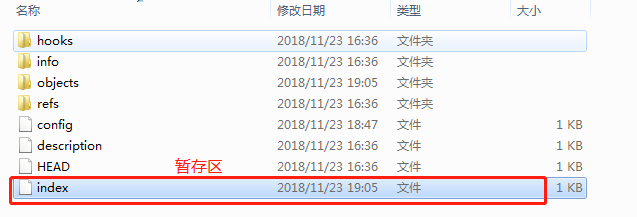
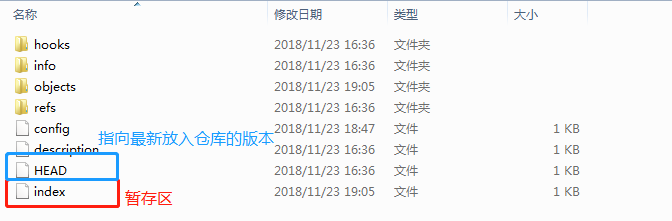
本地仓库工作目录版本库远程仓库区别 一次提交与推送

diff --git a/Git基础知识/基础命令.md b/Git基础知识/基础命令.md
@@ -38,45 +38,104 @@ clone下来的项目我们就可以正常开发了，当然我们也可以在本
 
 	git remote add origin https://github.com/****.git 
 
-需要注意，如果你在远程仓库上创建了一个新的项目时勾选了自动生成readme/.gitignore，经常会遇到本地仓库无法提交的情况。这通常是因为我们创建远程仓库时勾选的readme/.gitignore是远程仓库的第一次commit，我们从本地仓库第一次向远程仓库push代码前，没有pull一下远程仓库的代码，本地没有readme/.gitignore文件，所以无法提交成功。所以要先pull再push，当然如果你创建远程仓库时不勾选readme/.gitignore就可以直接push上去
-
-##提交
-
-创建一个文件夹，添加新的文件
-
-	git status //查看工作目录当前状态
-![](https://i.imgur.com/svSfUqC.png)
-
-untracked files表示未追踪的文件，就是新创建的src文件夹，未追踪的意思就是当前本地git仓库对它没有任何的记录，对本地仓库来说是不存在的，在我们提交代码的时候也不会提交上去
-
-	git add 文件 //将新创建的文件添加到工作目录追踪范围之内
-
-执行之后没有任何提示，执行git status看下当前本地仓库的状态：
-![](https://i.imgur.com/mqpxIDh.png)
-
-新添加的文件进入暂存区，从untracked未跟踪状态变为stage已暂存状态。
-
-##工作目录 暂存区 版本库
+##工作目录 暂存区 版本库 远程仓库
 
 **工作目录（working directory）**就是我们创建的项目文件夹，我们开发项目的地方，.git所在根目录
 
 	新创建的文件要添加到暂存区——git add
 
-**暂存区（index/staging area）**是指储存了所有待提交的改动的地方，只有在暂存区存在的文件，本地仓库才会追踪到它的变化。存储在.git文件夹中的index中，是一个二进制文件，可以理解为一个索引，内容包括根据文件名，文件模式和元数据进行排序的文件路径列表，每个路径都有权限以及Blob类型的SHA-1标识符（就是我们平时提交记录对应的那一串编码，下面会讲到
+**暂存区（index/staging area）**是指储存了所有待提交的改动的地方，只有在暂存区存在的文件，本地仓库才会追踪到它的变化。
+
+*暂存区对应在.git文件夹中的index中，是一个二进制文件，可以理解为一个索引，内容包括根据文件名，文件模式和元数据进行排序的文件路径列表，每个路径都有权限以及Blob类型的SHA-1标识符（就是我们平时提交记录对应的那一串编码，下面会讲到）*
 
 	把文件从暂存区提交到本地的版本库中——git commit
 
-**版本库**（Repository），可以理解为就是我们分布式版本控制中提到的我们本地的代码版本库，这里面有我们所有提交版本版本的数据。其中HEAD指向最新放入仓库的版本实质上是一个指针，存储在.git下的head，git为我们自动生了一个分支master，head就指向这个分支
+**版本库/本地仓库**（Repository）可以理解为就是我们分布式版本控制中提到的我们本地的代码版本库，这里面有我们所有提交版本版本的数据。
+
+*对应.git中的HEAD,实质上是一个指针，指向最新放入仓库的版本，默认情况下git为我们自动生了一个分支master，head就指向这个分支*
+
+**远程仓库**（Remote）托管代码的服务器，上面介绍分布式版本控制中的远程中央仓库，可以理解为一台专门用于协作开发时数据交换的电脑。
 
 ![](https://i.imgur.com/zvqcgU2.png)
+
+![](https://i.imgur.com/aQJUczH.png)
 
 	git diff 比较的是工作区和暂存区的差别
 	git diff HEAD 可以查看工作区和版本库的差别
 	git diff --cached 比较的是暂存区和版本库的差别
 
-![](https://i.imgur.com/AaAv8Yh.png)
 
+##简单的提交和推送
 
+创建一个文件夹，添加新的文件
+
+	git status //查看工作目录和暂存区的状态
+
+![](https://i.imgur.com/svSfUqC.png)
+
+untracked files表示未追踪的文件，就是新创建的src文件夹，未追踪的意思就是当前本地git仓库对它没有任何的记录，对本地仓库来说是不存在的，在我们提交代码的时候也不会提交上去
+
+	git add 文件 //将新创建的文件添加到暂存区
+
+执行之后没有任何提示，执行git status看下当前本地仓库的状态：
+
+![](https://i.imgur.com/mqpxIDh.png)
+
+新添加的文件进入暂存区，从untracked未跟踪状态变为stage已暂存状态。接着文件进入暂存区之后，我们的修改就都可以被暂存区追踪到，我们修改一下新增加文件夹下面的test.js文件
+
+![](https://i.imgur.com/iDWdbGg.png)
+
+这次文件左边的状态从New file（新建）变成了modified（修改），上面的提示不再是untracked（不在追踪范围）而是not staged for commit（还不在待提交的暂存区中）。意思就是，本地仓库现在已经认识了这个文件，它被修改了，还没到储存待提交信息的暂存区中，还是使用add添加到暂存区：
+
+	git add 文件名
+
+查看下工作目录和暂存区当前文件的状态
+
+![](https://i.imgur.com/bcxUsf5.png)
+
+按照提示，接着就可以commit提交了：
+
+	git commit //将暂存区文件提交到本地版本库中
+
+输入git commit回车之后，会进入命令模式，输入小写的i可以切换到插入模式，然后输入这次提交的备注信息，然后不要回车，按ESC返回命令模式，输入ZZ保存，一次提交就完成了。
+
+	git log //查看提交历史
+
+![](https://i.imgur.com/p4wItGH.png)
+	
+	git push //将本地仓库推送到远程仓库
+
+![](https://i.imgur.com/ICbt9CL.png)
+
+直接使用push会有这样的提示。意思是当前分支没有和上游远程分支做关联，git不知道你要推送到远程仓库的哪个分支上，我们想要和远程的master分支关联，按照提示输入：
+
+![](https://i.imgur.com/hQanMfS.png)
+
+origin是远程仓库的代指，master是远程仓库上的分支名，这里的origin/master，即远程仓库的master分支，就是我们实验项目的远程仓库。我们把关联的远程分支设置成了origin/master，之后直接执行git push默认就会推到远程的master下，当然我们不省略传入远程的分支名就会推送到对应的分支上。
+
+特别注意，如果你使用的不是clone而是直接本地init一个仓库与远程仓库关联的方式，第一次推送可能会遇到这个情况：
+
+![](https://i.imgur.com/HRg2Ciz.png)
+
+这是因为在远程仓库上创建新的项目时勾选了自动生成readme/.gitignore，它们就作为远程仓库的第一次commit，而我们本地git init的仓库没有远程仓库的readme/.gitignore文件，所以无法提交成功。所以要先拉取一下远端的代码同步到本地，再把我们的改动提交上去。先pull再push。当然如果你创建远程仓库时不勾选readme/.gitignore就可以直接push上去
+
+但是光执行pull也是不够的，远程仓库有一个提交，我们本地仓库也有一个提交，直接拉取远端的代码，这两个提交谁先谁后呢？没有操作相同文件时可能无所谓，但是一旦都修改了同一个文件，就涉及到哪次提交在后，覆盖的问题，所以要执行：
+
+	git pull --rebase origin master
+
+这条指令的意思是把远程库中的更新合并到本地库中，–rebase的作用是取消掉本地库中刚刚的commit，并把他们接到更新后的版本库之中，rebase具体下面会讲到，先看下结果
+
+![](https://i.imgur.com/BXdpIpm.png)
+
+接着push代码到远端仓库（orgin)的master就成功了
+
+![](https://i.imgur.com/mKBAmO7.png)
+
+看下提交记录
+
+![](https://i.imgur.com/q7JdSK7.png)
+
+远程仓库的initial commit是第一条记录，我们刚提交的在后面
 
 ##丢弃之前的提交reset --hard
 
